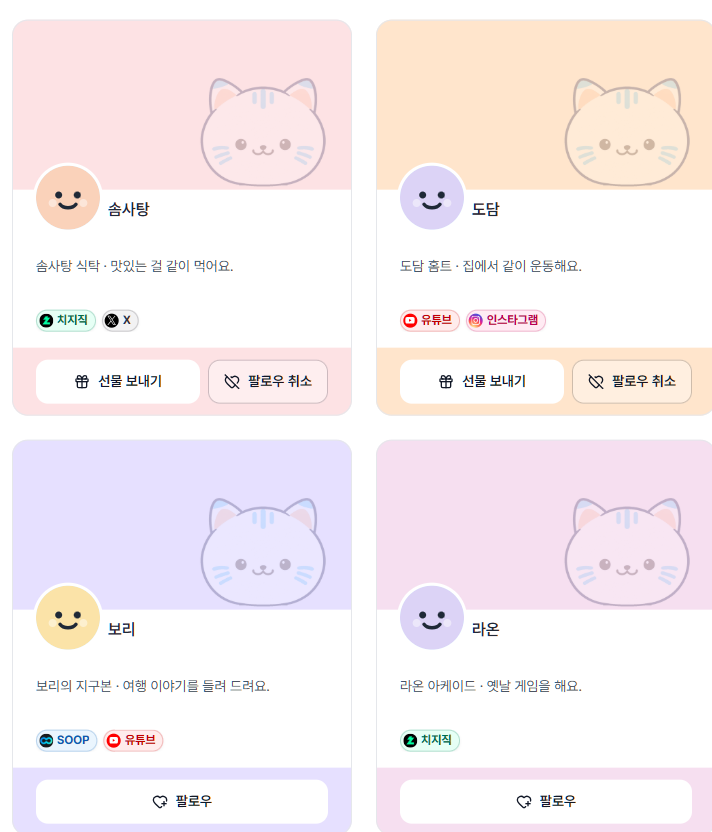
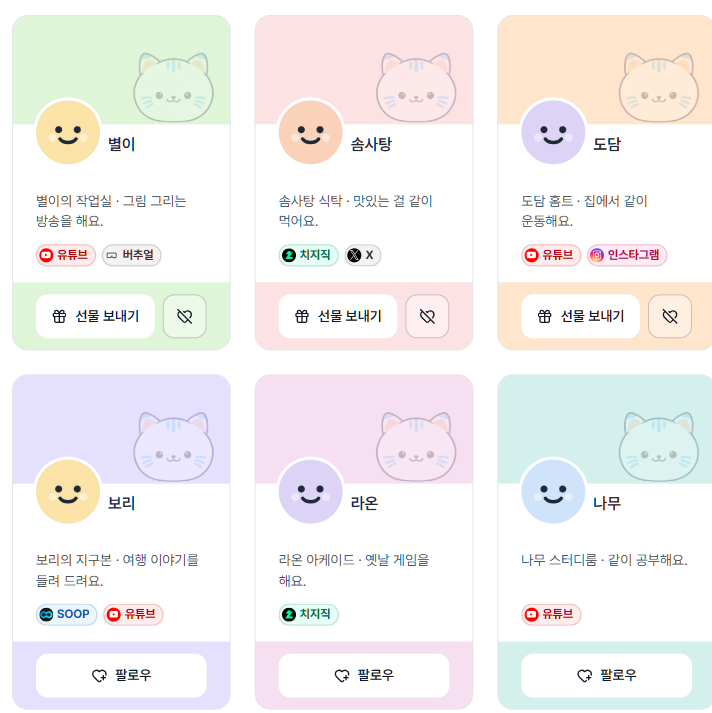
fix(fankkuk): 로그인 뒤 1024 카드 다시 3열 — 카드 하한 260 → 210, 좁은 카드 팬덤 이름 말줄임

diff --git a/projects/fankkuk/src/widgets/home/ui/front.module.css b/projects/fankkuk/src/widgets/home/ui/front.module.css
@@ -67,18 +67,18 @@
 .num { font-size: var(--fs-caption); line-height: var(--lh-caption); font-weight: var(--fw-btn); color: var(--brand-ink); }
 .stepsLine { display: flex; flex-wrap: wrap; align-items: center; gap: var(--space-2); margin-top: var(--space-6); font-size: var(--fs-caption); color: var(--gray-600); }
 
-/* ④·④-2 카드 줄 — 크리에이터 찾기와 같은 카드 틀(design-rules 17절). 본문 칸 828 이상 3열 · 544 이상 2열(카드 260 이상),
+/* ④·④-2 카드 줄 — 크리에이터 찾기와 같은 카드 틀(design-rules 17절). 본문 칸 678 이상 3열 · 444 이상 2열(카드 210 이상),
    찾기 격자와 같은 기준(DECISIONS 2026-10-18). 그 아래는 옆으로 넘기는 한 줄(카드 68%, 한 장씩 멈춤).
    넘기는 줄은 넘침을 자르므로 카드 초점 테두리(3px + 2px)가 잘리지 않게 사방 8 여백을 두고 같은 값만큼 바깥으로 당긴다 */
 .slot:has(.cardRow) { container-type: inline-size; }
 .cardRow { display: flex; gap: var(--space-4); margin: calc(var(--space-2) * -1); padding: var(--space-2); list-style: none; overflow-x: auto; scroll-snap-type: x mandatory; scroll-padding-inline: var(--space-2); }
 .cardRow > li { flex: 0 0 68%; scroll-snap-align: start; }
-/* 칸 폭 544 이상은 격자 — 카드 260 이상이 되는 만큼 최대 3열(찾기 격자와 같은 기준, 2026-10-18 「그렇게 해줘」). 2열이면 셋째 카드는 다음 줄 */
-@container (min-width: 544px) {
+/* 칸 폭 444 이상은 격자 — 카드 210 이상이 되는 만큼 최대 3열(찾기 격자와 같은 기준, 2026-10-18). 2열이면 셋째 카드는 다음 줄 */
+@container (min-width: 444px) {
   .cardRow { display: grid; grid-template-columns: repeat(2, minmax(0, 1fr)); grid-auto-rows: 1fr; gap: var(--space-6); margin: 0; padding: 0; overflow: visible; }
   .cardRow > li { flex: none; }
 }
-@container (min-width: 828px) {
+@container (min-width: 678px) {
   .cardRow { grid-template-columns: repeat(3, minmax(0, 1fr)); }
 }
 

diff --git a/projects/fankkuk/docs/design/mockups/site/v28-card-redesign/compare.html b/projects/fankkuk/docs/design/mockups/site/v28-card-redesign/compare.html
@@ -113,9 +113,9 @@
     <figure><figcaption>390 · 후<span>휴대폰은 「팔로우 취소」 글자까지</span></figcaption><img src="compare/icons-390.png" alt="아이콘과 팔로우 상태별 버튼, 390 폭"></figure>
   </div>
   <h2>로그인 뒤 — 칸 폭으로 열 수</h2>
-  <p class="lead" style="margin-bottom:16px">격자 열 수를 화면 폭이 아니라 카드가 놓이는 칸 폭으로 정한다 — 카드 260 이상이 되는 만큼 최대 3열(칸 828 이상 3열 · 544 이상 2열). 로그인 전 880 칸은 3열(277) 그대로, 로그인 뒤 1024 는 왼쪽 메뉴로 칸이 약 700 이라 3열(카드 214) → 2열(카드 332). 「팔로우 취소」는 이후 늘 아이콘만으로 바뀌어(사용자 「로그인 후 팔로우 취소는 아이콘만」) 선물 보내기 232 · 팔로우 취소 44. 홈 카드 줄도 같은 기준.</p>
+  <p class="lead" style="margin-bottom:16px">격자 열 수를 화면 폭이 아니라 카드가 놓이는 칸 폭으로 정한다 — 카드 210 이상이 되는 만큼 최대 3열(칸 678 이상 3열 · 444 이상 2열). 로그인 전 880 칸은 3열(277) 그대로, 로그인 뒤 1024 는 왼쪽 메뉴로 칸이 약 690 이라 3열(카드 214). 하한 260 으로 한때 2열이 됐다가 사용자 「원래 3열이었는데 2열로 바뀐 걸 말한 거야」로 210. 좁은 카드에서 이름·팬덤 이름은 「가나다라마…」처럼 말줄임, 「선물 보내기」 글자는 다 보인다. 홈 카드 줄도 같은 기준.</p>
   <div class="row">
-    <figure><figcaption>1024 로그인 · 후<span>2열, 카드 332</span></figcaption><img src="compare/grid-login-1024.png" alt="로그인 뒤 1024 폭, 2열"></figure>
+    <figure><figcaption>1024 로그인<span>3열, 카드 214</span></figcaption><img src="compare/grid-login-1024.png" alt="로그인 뒤 1024 폭, 3열"></figure>
   </div>
 </div>
 </body>

diff --git a/projects/fankkuk/src/widgets/creator-search/ui/creator-search.module.css b/projects/fankkuk/src/widgets/creator-search/ui/creator-search.module.css
@@ -29,10 +29,11 @@
 .results { min-width: 0; container-type: inline-size; }
 .grid { display: grid; grid-template-columns: minmax(0, 1fr); gap: var(--space-4); }
 /* 2열 이상은 모든 줄을 가장 큰 카드 높이로 — 줄마다 높이가 달라 보이지 않게 */
-/* 열 수는 화면 폭이 아니라 카드가 놓이는 칸 폭으로(컨테이너 쿼리) — 카드가 260 이상인 만큼 최대 3열.
-   544 = 260×2 + 사이 24, 828 = 260×3 + 24×2. 로그인 뒤 왼쪽 메뉴로 칸이 좁아지면(1024 에서 약 700) 2열(2026-10-18 사용자 「그렇게 해줘」) */
-@container (min-width: 544px) { .grid { grid-template-columns: repeat(2, minmax(0, 1fr)); grid-auto-rows: 1fr; gap: var(--space-6); } }
-@container (min-width: 828px) { .grid { grid-template-columns: repeat(3, minmax(0, 1fr)); } }
+/* 열 수는 화면 폭이 아니라 카드가 놓이는 칸 폭으로(컨테이너 쿼리) — 카드가 210 이상인 만큼 최대 3열.
+   444 = 210×2 + 사이 24, 678 = 210×3 + 24×2. 로그인 뒤 왼쪽 메뉴로 좁아진 칸(1024 에서 약 700)도 3열(카드 약 217)
+   — 2026-10-18 하한 260 으로 2열이 됐다가 사용자 「원래 3열이었는데 2열로 바뀐 걸 말한 거야」로 210 */
+@container (min-width: 444px) { .grid { grid-template-columns: repeat(2, minmax(0, 1fr)); grid-auto-rows: 1fr; gap: var(--space-6); } }
+@container (min-width: 678px) { .grid { grid-template-columns: repeat(3, minmax(0, 1fr)); } }
 /* 결과 없음 — 시안처럼 왼쪽에 폭 480 상자 */
 .results :global(.empty) { max-width: 480px; }
 

diff --git a/projects/fankkuk/src/widgets/my-following/ui/my-following.module.css b/projects/fankkuk/src/widgets/my-following/ui/my-following.module.css
@@ -3,8 +3,9 @@
 .results { min-width: 0; container-type: inline-size; }
 .grid { display: grid; grid-template-columns: minmax(0, 1fr); gap: var(--space-4); }
 /* 2열 이상은 모든 줄을 가장 큰 카드 높이로 — 줄마다 높이가 달라 보이지 않게 */
-/* 열 수는 화면 폭이 아니라 카드가 놓이는 칸 폭으로(컨테이너 쿼리) — 카드가 260 이상인 만큼 최대 3열.
-   544 = 260×2 + 사이 24, 828 = 260×3 + 24×2. 로그인 뒤 왼쪽 메뉴로 칸이 좁아지면(1024 에서 약 700) 2열(2026-10-18 사용자 「그렇게 해줘」) */
-@container (min-width: 544px) { .grid { grid-template-columns: repeat(2, minmax(0, 1fr)); grid-auto-rows: 1fr; gap: var(--space-6); } }
-@container (min-width: 828px) { .grid { grid-template-columns: repeat(3, minmax(0, 1fr)); } }
+/* 열 수는 화면 폭이 아니라 카드가 놓이는 칸 폭으로(컨테이너 쿼리) — 카드가 210 이상인 만큼 최대 3열.
+   444 = 210×2 + 사이 24, 678 = 210×3 + 24×2. 로그인 뒤 왼쪽 메뉴로 좁아진 칸(1024 에서 약 700)도 3열(카드 약 217)
+   — 2026-10-18 하한 260 으로 2열이 됐다가 사용자 「원래 3열이었는데 2열로 바뀐 걸 말한 거야」로 210 */
+@container (min-width: 444px) { .grid { grid-template-columns: repeat(2, minmax(0, 1fr)); grid-auto-rows: 1fr; gap: var(--space-6); } }
+@container (min-width: 678px) { .grid { grid-template-columns: repeat(3, minmax(0, 1fr)); } }
 .empty p { max-width: 480px; }

diff --git a/projects/fankkuk/docs/design/design-rules.md b/projects/fankkuk/docs/design/design-rules.md
@@ -381,7 +381,7 @@ status: approved
 - 사진 64, 배너에 32 걸침, 왼쪽(카드 안쪽 여백 24 선). 사진 오른쪽에 이름(16 · 600, 한 줄 말줄임, 높이 24) 한 줄, 그 아래 4 띄워 팬덤 뱃지(12) 한 줄(높이 22, 뱃지 없어도 자리 유지). 2026-10-18 사용자 「A로」 — 한 줄에 나란히 두면 긴 이름(최대 20자)이 뱃지를 「하..」까지 밀어냈다. 이름 20자 · 팬덤 10자를 넣어 1024(카드가 가장 좁은 폭)·1440·390 에서 뱃지가 다 보이는 것을 확인.
 - 본문 두 줄, 줄 사이 8: ① 「채널 이름 · 소개」 14 회색 **최대 두 줄**(넘치면 둘째 줄 끝 말줄임, 전체 소개는 크리에이터 페이지에서 — 카드 전체가 프로필 링크라 소개 줄의 title 은 뜨지 않는다. 글자는 다 들어 있어 화면 낭독기는 전체를 읽는다, 비어도 두 줄 자리 — 2026-10-18 사용자 「한마디 설명 공간을 한두줄 더」, 세 줄은 짧은 소개 카드가 비어 보여 두 줄) ② 칩 줄 — 플랫폼 칩이 카드 폭 전체를 쓰고 넘치면 +N, 소개 줄과 12 띄운다 ③ 아래 색 띠 — 카드 맨 아래, 배너처럼 카드 안쪽 여백만큼 바깥으로 나가 좌·우·아래 가장자리에 붙는다(위 배너와 세트, 가운데 흰 몸통 = 사진·이름·소개·칩). 몸통과 16 띄우고, 띠 안쪽 위아래 12 · 좌우 24. 띠 바탕은 배너 면과 같은 색(테마 색, 없으면 크리에이터 ID 파스텔 — 배너가 사진이어도 같은 규칙). 띠 안 버튼은 팔로우 상태로 정한다(2026-10-18 사용자 「팔로우가 안 돼 있을 땐 팔로우 버튼만, 팔로우 상태에서만 선물 보내기와 팔로우 취소 버튼」): 팔로우 안 함(로그인 전 포함) = 「팔로우」 하나, 띠 폭 전체 · 팔로우 중 = 왼쪽 「선물 보내기」(그 크리에이터를 고른 선물 보내기 화면) + 오른쪽 「팔로우 취소」(누르면 팔로우 취소 확인 창), 사이 8 — 키보드 순서도 같다(2026-10-18 사용자 「선물하기 버튼이랑 취소버튼 순서 반대로」). 누르면 그 자리에서 바뀌고 띠·카드 높이는 같다. 모양: 높이 44(= 누름 칸), 반경 12, 글자 #111827 14, 아이콘 16(lucide heart-plus · heart-off · gift, 선 2) + 사이 8, 넘치면 말줄임. 주(「팔로우」 혼자일 때 · 「선물 보내기」) = 흰 면 · 600 · 남은 폭 전부, 보조(「팔로우 취소」) = 아이콘만 44, 흰 반투명 면 + 테두리(띠 색과 #1F2937 22%). 「팔로우 취소」는 늘 아이콘만 44 정사각(이름은 화면 낭독기가 읽고, 마우스를 올리면 title 「팔로우 취소」 — 2026-10-18 사용자 「로그인 후 팔로우 취소는 아이콘만」). 팔로우·팔로우 취소 뒤에는 초점이 「선물 보내기」·「팔로우」로 옮겨 가고, 저장하는 동안 띠 버튼은 흐리게 누를 수 없다. 팔로우한 크리에이터 목록도 같은 버튼(취소가 저장되면 카드가 빠진다). 용어집에 「선물하기」가 없어 사이트의 같은 뜻 표기 「선물 보내기」. 카드 밖(크리에이터 페이지 등) 팔로우 버튼은 그대로. 본인 카드는 띠를 그대로 두고 버튼 대신 「내 페이지」 태그(높이 같음), 운영자 화면과 로그인 전 홈(새 크리에이터)은 띠가 없다 — 그 화면의 카드가 모두 같아 높이가 맞는다. **평균 승인 시간은 카드에 두지 않는다**(2026-10-18 사용자 「평균 승인 시간을 없애고 조금 재조정」).
 - 카드 안쪽 여백 24(--card-pad), 반경 16, 카드 전체가 프로필 링크 · 버튼은 그 위(이동 안 됨). 마우스를 올리면 테두리 진하게, 초점은 카드에 3px 테두리.
-- 격자: 카드가 놓이는 칸 폭 기준(컨테이너 쿼리) — 카드 260 이상이 되는 만큼 최대 3열(칸 828 이상 3열 · 544 이상 2열 · 그 아래 1열), 간격 24(1열 16). 찾기·팔로우한 크리에이터·홈 카드 줄이 같은 기준이고, 홈은 544 아래에서 옆으로 넘기는 한 줄. 로그인 전 880 칸은 3열, 로그인 뒤 왼쪽 메뉴로 좁아진 칸(1024 에서 약 700)은 2열(2026-10-18 사용자 「그렇게 해줘」).
+- 격자: 카드가 놓이는 칸 폭 기준(컨테이너 쿼리) — 카드 210 이상이 되는 만큼 최대 3열(칸 678 이상 3열 · 444 이상 2열 · 그 아래 1열), 간격 24(1열 16). 찾기·팔로우한 크리에이터·홈 카드 줄이 같은 기준이고, 홈은 444 아래에서 옆으로 넘기는 한 줄. 로그인 전 880 칸은 3열(277), 로그인 뒤 왼쪽 메뉴로 좁아진 칸(1024 에서 약 690)도 3열(약 214) — 2026-10-18 하한 260 으로 2열이 됐다가 사용자 「원래 3열이었는데 2열로 바뀐 걸 말한 거야」로 210. 좁은 카드에서 이름(약 5자)·팬덤 이름은 말줄임(…)이고, 전체 이름·팬덤 이름은 카드를 눌러 가는 크리에이터 페이지에서 본다(카드 전체를 덮는 링크 때문에 title 은 뜨지 않는다).
 - 팬덤 뱃지: 면 = 테마 색, 테두리 = 테마 색과 #1F2937 22% 섞은 색, 글자 #111827. 테마 색이 없으면 사이트 기본 뱃지.
 - 테마 색 고르기(설정 · 폭 720): 원형 견본 8개(파스텔 8색, shared/config/pastel-tones 순서), 고른 것은 진한 테두리 + 체크. 카드 미리보기는 칸 아래. 「선택 안 함」으로 기본 모양에 돌아갈 수 있다.
 - 실측(시안): 글자 대비 4.5:1 미달 0, 390 폭 가로 스크롤 없음.

diff --git a/projects/fankkuk/docs/DECISIONS.md b/projects/fankkuk/docs/DECISIONS.md
@@ -1000,3 +1000,4 @@ Vite SPA 기각 — 서버 일을 Supabase 함수로 떼어 원본 흐름을 다
 - 버튼 양옆 8 → 12 되돌림(사용자 「팔로우 텍스트가 너무 좁아보이네」). 칩 줄 161 이라 PC 는 다시 「SOOP +4」 — 이어서 하단 버튼 줄 안(아래 항목)으로 푼다.
 - 카드 격자 열 수를 칸 폭으로(사용자 「그렇게 해줘」): 화면 폭(@media) 기준이면 로그인 뒤 왼쪽 메뉴로 좁아진 칸에서도 3열이라 카드가 214 까지 좁아졌다 — 카드가 놓이는 칸 폭 기준(컨테이너 쿼리)으로 카드 260 이상이 되는 만큼 최대 3열, 로그인 뒤 1024 는 2열. 좁은 띠의 「팔로우 취소」 아이콘만(마우스를 올리면 title)도 같은 날 확정.
 - 「팔로우 취소」는 늘 아이콘만(사용자 「로그인 후 팔로우 취소는 아이콘만」): 띠 폭에 따라 글자를 보이던 전환을 없앴다 — 팔로우 중 상태는 로그인 뒤에만 있고, 「선물 보내기」가 남은 폭을 다 쓴다. 마우스를 올리면 title 「팔로우 취소」.
+- 카드 하한 260 → 210(사용자 「원래 3열이었는데 2열로 바뀐 걸 말한 거야」): 「카드가 너무 커」는 로그인 뒤 1024 가 3열에서 2열로 바뀐 것을 말한 것이었다 — 칸 폭 기준은 그대로 두고 하한을 210 으로 내려 로그인 뒤 1024 도 3열(약 214). 좁은 카드에서 이름·팬덤 이름은 말줄임(…), 전체는 크리에이터 페이지에서.

diff --git a/projects/fankkuk/workspace/HANDOFF.md b/projects/fankkuk/workspace/HANDOFF.md
@@ -11,7 +11,7 @@
   },
   "spec": {
     "status": "clean",
-    "hash": "386e8d6c4576"
+    "hash": "2a45348be85f"
   },
   "design": {
     "status": "clean",
@@ -19,7 +19,7 @@
   },
   "design/page-designer": {
     "status": "clean",
-    "hash": "65f5de73d174"
+    "hash": "df03e595a3e3"
   },
   "design/schema-designer": {
     "status": "clean",
@@ -27,7 +27,7 @@
   },
   "implement": {
     "status": "clean",
-    "hash": "71dfcab87750"
+    "hash": "f42ac80f9b6e"
   },
   "qa": {
     "status": "clean",
